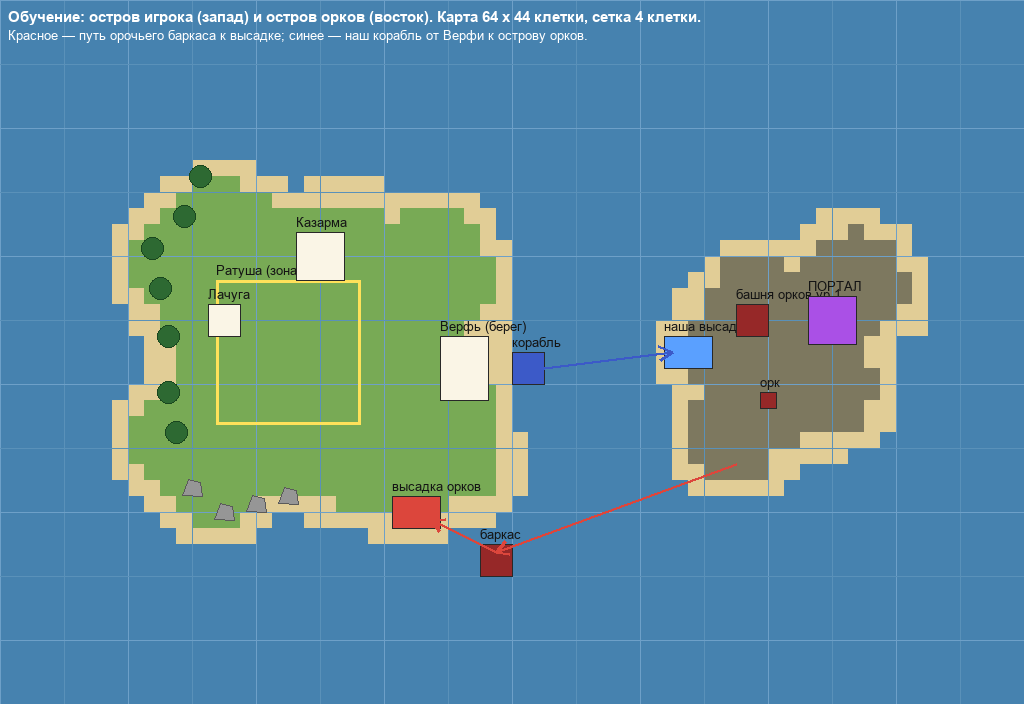
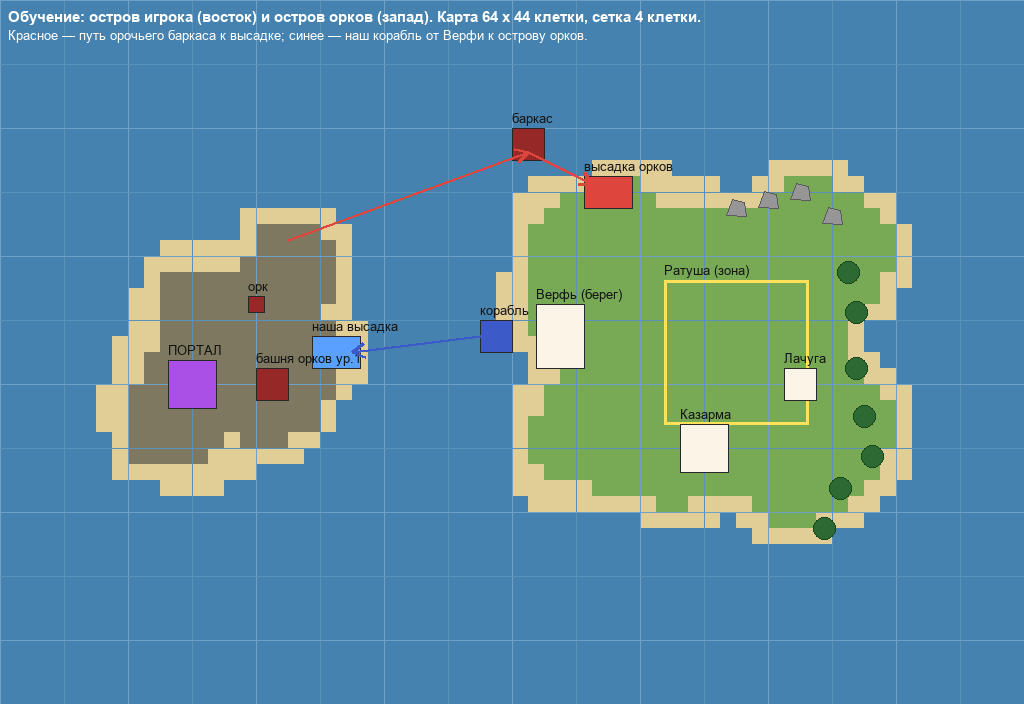
Tutorial map scheme turned 180 degrees (the user): the player's island east, the orcs' west

diff --git a/Tools/blender/tutorial_plan.py b/Tools/blender/tutorial_plan.py
@@ -42,6 +42,21 @@ SPOTS = {
 FOREST = [(10.5, 23), (10, 26), (9.5, 28.5), (11.5, 30.5), (10.5, 19.5), (11, 17), (12.5, 33)]   # trees (west)
 ROCKS = [(14, 12), (12, 13.5), (16, 12.5), (18, 13)]                                       # stones (south-west)
 
+# turned 180 degrees (the user, 2026-11-05): the player's island EAST, the orcs' WEST, the orc landing
+# north-west of the player's island -- the layout above is kept as drawn first and turned here
+def _turn(x, y):
+    return W - x, H - y
+
+
+PLAYER_BLOBS = [(*_turn(x, y), r) for x, y, r in PLAYER_BLOBS]
+ORC_BLOBS = [(*_turn(x, y), r) for x, y, r in ORC_BLOBS]
+for _s in SPOTS.values():
+    _s["at"] = _turn(*_s["at"])
+FOREST = [_turn(x, y) for x, y in FOREST]
+ROCKS = [_turn(x, y) for x, y in ROCKS]
+ROUTES = [((46, 15), (31, 9.5), "orc"), ((31, 9.5), (27, 11.5), "orc"), ((34, 21), (42, 22), "ours")]
+ROUTES = [(_turn(*a), _turn(*b), k) for a, b, k in ROUTES]
+
 
 def wobble(x, y, seed):
     return 0.6 * math.sin(x * 0.7 + seed) * math.cos(y * 0.6 - seed)
@@ -104,11 +119,10 @@ def main():
         for s in (-0.5, 0.5):
             d.line([bx, by, bx - 14 * math.cos(ang + s), by - 14 * math.sin(ang + s)], fill=colour, width=3)
 
-    arrow((46, 15), (31, 9.5), (220, 70, 60))
-    arrow((31, 9.5), (27, 11.5), (220, 70, 60))
-    arrow((34, 21), (42, 22), (60, 90, 200))
+    for a, b, kind in ROUTES:
+        arrow(a, b, (220, 70, 60) if kind == "orc" else (60, 90, 200))
 
-    d.text((8, 8), "Обучение: остров игрока (запад) и остров орков (восток). Карта 64 x 44 клетки, сетка 4 клетки.",
+    d.text((8, 8), "Обучение: остров игрока (восток) и остров орков (запад). Карта 64 x 44 клетки, сетка 4 клетки.",
            font=font, fill=(255, 255, 255))
     d.text((8, 28), "Красное — путь орочьего баркаса к высадке; синее — наш корабль от Верфи к острову орков.",
            font=small, fill=(255, 255, 255))

diff --git a/Design/features/tutorial.md b/Design/features/tutorial.md
@@ -54,9 +54,9 @@ attack -> destroy the portal -> victory.
 
 ## The map (scheme for approval, 2026-11-05)
 `Tools/blender/tutorial_plan.py` -> `tutorial-plan.json` (shapes + spots, for the Blender build) and
-`tutorial-plan.png`. 64 x 44 cells: the player's island west (~26 x 26, Town Hall zone 9x9 in the
-middle, forest west, stones south-west, the Shipyard on the east shore facing the strait, the orc
-landing beach south-east), the orcs' island east (~16 x 16: landing beach west, tower, guard,
+`tutorial-plan.png`. 64 x 44 cells: TURNED 180° at the user's word: the player's island EAST (~26 x 26, Town Hall zone 9x9 in the
+middle, forest east, stones north-east, the Shipyard on the west shore facing the strait, the orc
+landing beach north-west), the orcs' island WEST (~16 x 16: landing beach east, tower, guard,
 portal). Strait ~10 cells. NOT approved yet.
 
 ## To build (plan)
